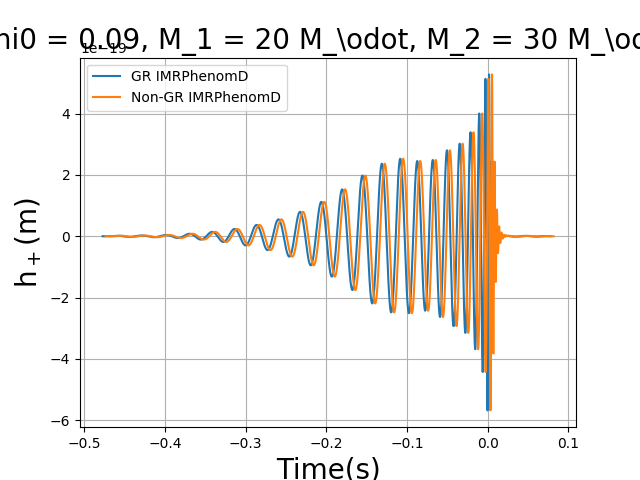
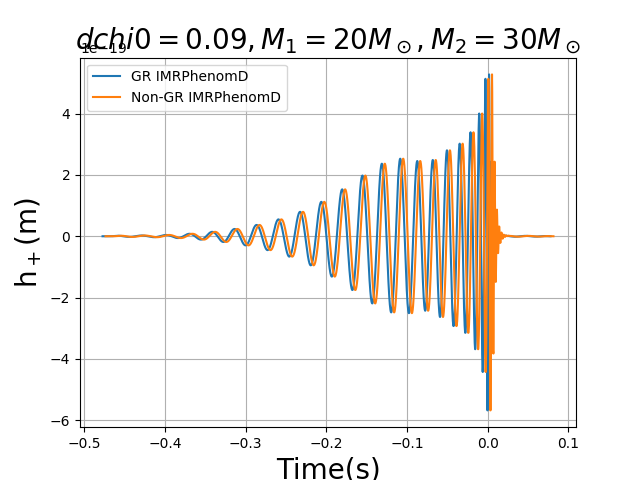
Changing the title of the figures of nonGR_IMRPhenomD.py

Changed region(s): [[0.0, 0.0312, 1.0, 0.125]]

diff --git a/nonGR_IMRPhenomD.py b/nonGR_IMRPhenomD.py
@@ -90,7 +90,7 @@ for nonGR in nGR:
 	plt.plot(sp.sample_times, hp, label = 'Non-GR IMRPhenomD')
 	plt.xlabel('Time(s)', fontsize = 20)
 	plt.ylabel('h$_+$(m)', fontsize = 20)
-	plt.title(('%s = %.2f, M_1 = 20 M_\odot, M_2 = 30 M_\odot$'%(nonGR,j)), fontsize = 20)	
+	plt.title(('$%s = %.2f, M_1 = 20 M_\odot, M_2 = 30 M_\odot$'%(nonGR,j)), fontsize = 20)	
 	plt.legend(loc = 'best')
 	plt.grid()
 	plt.savefig('%s'%nonGR+'.png')
